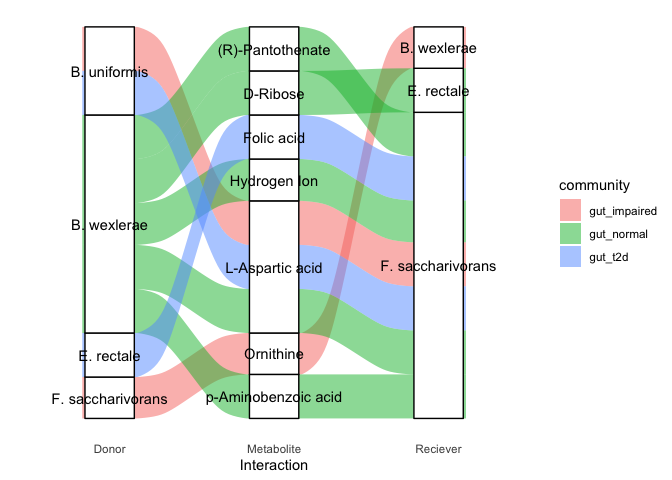
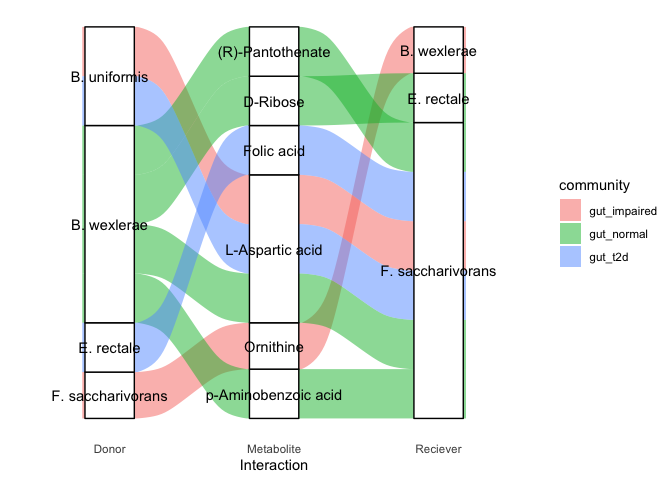
add further comments and documentation to code snippets

Changed region(s): [[0.0625, 0.0625, 0.75, 0.8438], [0.2188, 0.0625, 0.25, 0.0938]]

diff --git a/scripts/4.plot_smetana_detailed_interactions.md b/scripts/4.plot_smetana_detailed_interactions.md
@@ -334,12 +334,12 @@ across different conditions. For example, we can see that *B. uniformis*
 is an amino acid donor in disease states, while *B. wexlerae* is an
 important donor in the healthy microbiome.
 
-Filter out Fe2+ ion exchanges as pH-dependence is not accounted for in
-models. These exchanges may be possible, but further domain knowledge is
-needed to asses their feasibility.
+Filter out Fe2+ and Hydrogen ion exchanges as pH-dependence is not
+accounted for in models. These exchanges may be possible, but further
+domain knowledge is needed to asses their feasibility.
 
 ``` r
-ggplot(smet_gut %>% filter(ave_smet>=0.90,name!="Fe2+"),
+ggplot(smet_gut %>% filter(ave_smet>=0.90,name!="Fe2+",name!="Hydrogen Ion"),
        aes(axis1 = taxonomy_donor, axis2 = name, axis3 = taxonomy_receiver,
            y = ave_smet)) +
     scale_x_discrete(limits = c("Donor", "Metabolite", "Reciever")) +
